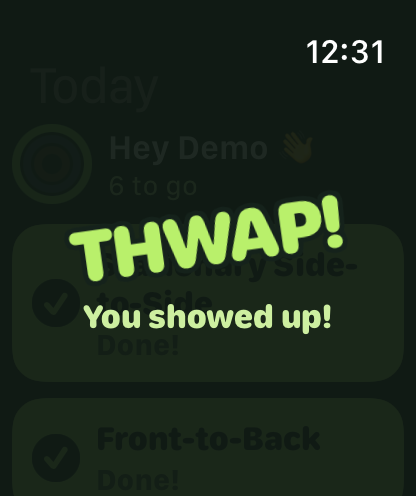
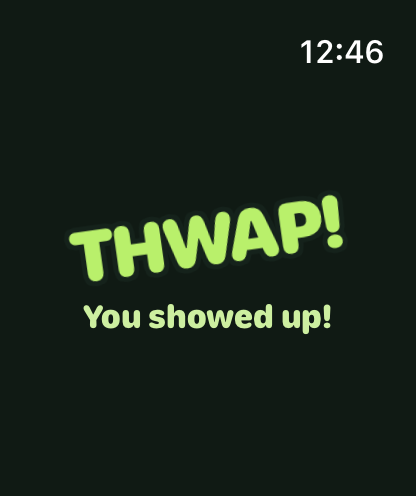
fix(watch): solid stamp backdrop and persist offline check-off queue

Changed region(s): [[0.7188, 0.0605, 0.9375, 0.1512]]

diff --git a/ios/ThwapWatch/ThwapCore/Sources/ThwapCore/CheckOffQueue.swift b/ios/ThwapWatch/ThwapCore/Sources/ThwapCore/CheckOffQueue.swift
@@ -9,8 +9,11 @@ import Foundation
 /// delivered. That matches the server's own per-drill dedup guard, so a retry
 /// can never double-count the leaderboard.
 ///
-/// In-memory for the scaffold. Persistence (file or App Group defaults) lands
-/// with the real client; `pending` is Codable-ready for that.
+/// Persistence: when built with a `fileURL` the queue loads that file on init
+/// and rewrites it (atomically) after every enqueue and every confirmed
+/// delivery, so a check-off made offline survives the app being killed. An
+/// entry leaves the file only after the API confirms it. `init()` with no URL
+/// stays in memory (tests, previews).
 public actor CheckOffQueue {
     public struct Entry: Codable, Equatable, Hashable, Sendable {
         public var date: String
@@ -18,10 +21,40 @@ public actor CheckOffQueue {
         public var key: String { "\(date)|\(request.drillId)" }
     }
 
+    /// On-disk shape. Versioned so a later format change can migrate.
+    struct Snapshot: Codable {
+        var version = 1
+        var entries: [Entry]
+        var delivered: [String]
+    }
+
     private var entries: [Entry] = []
     private var delivered: Set<String> = []
+    private let fileURL: URL?
 
-    public init() {}
+    /// In-memory queue.
+    public init() { fileURL = nil }
+
+    /// Persistent queue backed by `fileURL`. A missing or unreadable file
+    /// starts empty (a corrupt file never blocks a check-off).
+    public init(fileURL: URL) {
+        self.fileURL = fileURL
+        if let data = try? Data(contentsOf: fileURL),
+           let snap = try? JSONDecoder().decode(Snapshot.self, from: data) {
+            entries = snap.entries
+            delivered = Set(snap.delivered)
+        }
+    }
+
+    /// `checkoff-queue.json` in the App Group container shared with the
+    /// complication, falling back to Application Support when the group
+    /// container is unavailable (unsigned simulator builds, tests).
+    public static func defaultFileURL(appGroup: String = RingStore.appGroup) -> URL {
+        let fm = FileManager.default
+        let dir = fm.containerURL(forSecurityApplicationGroupIdentifier: appGroup)
+            ?? fm.urls(for: .applicationSupportDirectory, in: .userDomainMask)[0]
+        return dir.appendingPathComponent("checkoff-queue.json")
+    }
 
     /// Everything not yet confirmed by the server, oldest first.
     public var pending: [Entry] { entries }
@@ -40,6 +73,8 @@ public actor CheckOffQueue {
             return false
         }
         entries.append(entry)
+        pruneDelivered(keepingFrom: date)
+        save()
         return true
     }
 
@@ -51,13 +86,32 @@ public actor CheckOffQueue {
         while let next = entries.first {
             do {
                 _ = try await api.markDone(next.request)
-                entries.removeFirst()
+                // Remove only after the server confirmed, then persist at once
+                // so a kill right after delivery cannot resend a stale entry.
+                entries.removeAll { $0.key == next.key }
                 delivered.insert(next.key)
+                save()
                 confirmed += 1
             } catch {
                 break
             }
         }
         return confirmed
+    }
+
+    /// Delivered keys only guard against re-sending; anything older than the
+    /// newest day being written can never be re-enqueued by the UI, so drop it
+    /// to keep the file small.
+    private func pruneDelivered(keepingFrom date: String) {
+        delivered = delivered.filter { (($0.split(separator: "|").first).map(String.init) ?? "") >= date }
+    }
+
+    private func save() {
+        guard let fileURL else { return }
+        let snap = Snapshot(entries: entries, delivered: delivered.sorted())
+        guard let data = try? JSONEncoder().encode(snap) else { return }
+        try? FileManager.default.createDirectory(at: fileURL.deletingLastPathComponent(),
+                                                 withIntermediateDirectories: true)
+        try? data.write(to: fileURL, options: .atomic)
     }
 }

diff --git a/ios/ThwapWatch/ThwapCore/Tests/ThwapCoreTests/CheckOffQueueTests.swift b/ios/ThwapWatch/ThwapCore/Tests/ThwapCoreTests/CheckOffQueueTests.swift
@@ -76,4 +76,78 @@ final class CheckOffQueueTests: XCTestCase {
         let pending = await q.pending
         XCTAssertTrue(pending.isEmpty)
     }
+
+    // MARK: Persistence
+
+    func tempURL() -> URL {
+        FileManager.default.temporaryDirectory
+            .appendingPathComponent("thwap-queue-\(UUID().uuidString)")
+            .appendingPathComponent("checkoff-queue.json")
+    }
+
+    func testPendingSurvivesReload() async {
+        let url = tempURL()
+        defer { try? FileManager.default.removeItem(at: url.deletingLastPathComponent()) }
+        let api = StubThwapAPI(simulateOffline: true)
+        let q1 = CheckOffQueue(fileURL: url)
+        await q1.enqueue(req("stick:0"), date: day)
+        await q1.enqueue(req("shoot:1", "shoot"), date: day)
+        await q1.flush(using: api) // offline: nothing confirmed, nothing removed
+
+        // A new instance stands in for the app being killed and relaunched.
+        let q2 = CheckOffQueue(fileURL: url)
+        let pending = await q2.pending
+        XCTAssertEqual(pending.map(\.request.drillId), ["stick:0", "shoot:1"])
+        let done = await q2.isDone(drillId: "shoot:1", date: day)
+        XCTAssertTrue(done)
+    }
+
+    func testReloadedQueueDedupesQueuedAndDelivered() async throws {
+        let url = tempURL()
+        defer { try? FileManager.default.removeItem(at: url.deletingLastPathComponent()) }
+        let api = StubThwapAPI()
+        let q1 = CheckOffQueue(fileURL: url)
+        await q1.enqueue(req("stick:0"), date: day)
+        await q1.flush(using: api)                    // stick:0 delivered
+        await q1.enqueue(req("stick:1"), date: day)   // stick:1 still pending
+
+        let q2 = CheckOffQueue(fileURL: url)
+        let againDelivered = await q2.enqueue(req("stick:0"), date: day)
+        let againPending = await q2.enqueue(req("stick:1"), date: day)
+        XCTAssertFalse(againDelivered)
+        XCTAssertFalse(againPending)
+        let pending = await q2.pending
+        XCTAssertEqual(pending.map(\.request.drillId), ["stick:1"])
+        await q2.flush(using: api)
+        let server = try await api.todayDone()
+        XCTAssertEqual(server.drills, ["stick:0", "stick:1"])
+    }
+
+    func testEntryRemovedFromDiskOnlyAfterConfirm() async {
+        let url = tempURL()
+        defer { try? FileManager.default.removeItem(at: url.deletingLastPathComponent()) }
+        let api = StubThwapAPI(simulateOffline: true)
+        let q1 = CheckOffQueue(fileURL: url)
+        await q1.enqueue(req("dryland:2", "dryland"), date: day)
+        await q1.flush(using: api)
+        let stillThere = await CheckOffQueue(fileURL: url).pending
+        XCTAssertEqual(stillThere.count, 1)
+
+        await api.setOffline(false)
+        await q1.flush(using: api)
+        let afterConfirm = await CheckOffQueue(fileURL: url).pending
+        XCTAssertTrue(afterConfirm.isEmpty)
+    }
+
+    func testCorruptFileStartsEmpty() async throws {
+        let url = tempURL()
+        defer { try? FileManager.default.removeItem(at: url.deletingLastPathComponent()) }
+        try FileManager.default.createDirectory(at: url.deletingLastPathComponent(), withIntermediateDirectories: true)
+        try Data("not json".utf8).write(to: url)
+        let q = CheckOffQueue(fileURL: url)
+        let ok = await q.enqueue(req("stick:0"), date: day)
+        XCTAssertTrue(ok)
+        let reloaded = await CheckOffQueue(fileURL: url).pending
+        XCTAssertEqual(reloaded.count, 1)
+    }
 }

diff --git a/ios/ThwapWatch/WatchApp/AppModel.swift b/ios/ThwapWatch/WatchApp/AppModel.swift
@@ -13,7 +13,9 @@ final class AppModel: ObservableObject {
     @Published var loadFailed = false
 
     let api: ThwapAPI
-    let queue = CheckOffQueue()
+    /// Persisted in the App Group container, so offline check-offs survive a
+    /// kill and are retried on the next launch.
+    let queue = CheckOffQueue(fileURL: CheckOffQueue.defaultFileURL())
     private let ringStore = RingStore()
 
     init(api: ThwapAPI) { self.api = api }
@@ -28,6 +30,9 @@ final class AppModel: ObservableObject {
     }
 
     func load() async {
+        // Retry anything left from an earlier run before reading the server,
+        // so today's server read already includes it.
+        await queue.flush(using: api)
         do {
             let p = try await api.todayPlan()
             plan = p

diff --git a/ios/ThwapWatch/WatchApp/StampView.swift b/ios/ThwapWatch/WatchApp/StampView.swift
@@ -12,7 +12,8 @@ struct StampView: View {
 
     var body: some View {
         ZStack {
-            ThwapTheme.bg.opacity(0.94).ignoresSafeArea()
+            // Fully solid so the Today list never shows through the stamp.
+            ThwapTheme.bg.ignoresSafeArea()
             VStack(spacing: 6) {
                 outlined("THWAP!")
                     .rotationEffect(.degrees(-8))

diff --git a/ios/ThwapWatch/README.md b/ios/ThwapWatch/README.md
@@ -52,4 +52,4 @@ Launch arguments put any screen on glass for screenshots: `-thwapScreen today|ru
 
 ## Swapping in the real client
 
-Implement `ThwapAPI` against the real endpoints and replace `StubThwapAPI(...)` in `WatchApp/ThwapWatchApp.swift`. `CheckOffQueue` is in memory for now. Persist `pending` (it's `Codable`) when the real client lands so an offline check-off survives a relaunch.
+Implement `ThwapAPI` against the real endpoints and replace `StubThwapAPI(...)` in `WatchApp/ThwapWatchApp.swift`. `CheckOffQueue` persists to `checkoff-queue.json` in the App Group container (`group.com.thwaphockey.app`, Application Support as a fallback), so an offline check-off survives the app being killed. It loads on launch, flushes before the first server read, and drops an entry only after `markDone` confirms it.
